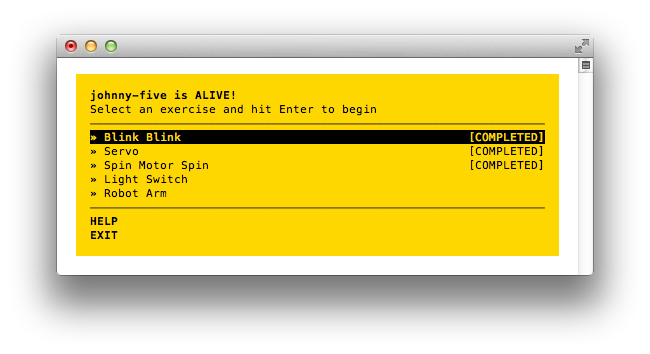
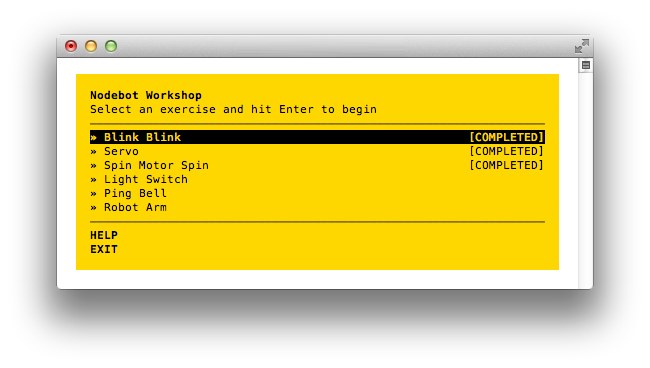
Updated project name and screenshot

diff --git a/nodebot-workshop.js b/nodebot-workshop.js
@@ -5,7 +5,7 @@ const workshopper = require('workshopper')
     , menu        = require('./exercises/menu')
 
     , name        = 'nodebot-workshop'
-    , title       = 'nodebot-workshop'
+    , title       = 'Nodebot Workshop'
     , subtitle    = '\x1b[23mSelect an exercise and hit \x1b[3mEnter\x1b[23m to begin'
 
 function fpath (f) {
